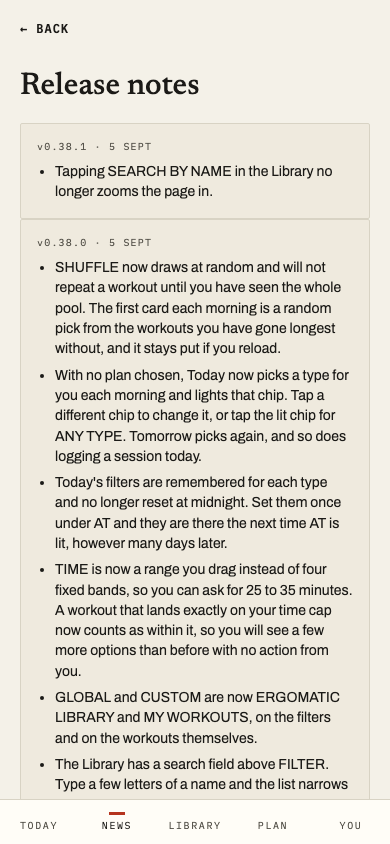
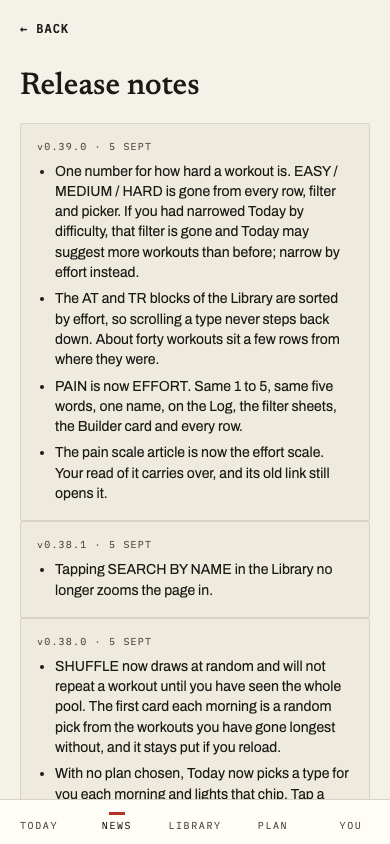
v0.39.0 notes: EASY/MEDIUM/HARD gone, PAIN is now EFFORT, AT/TR re-sorted, the effort-scale article; releasePin bumped, releases capture refreshed
Claude-Session: https://claude.ai/code/session_013Zebvh9Rq7cXCKg9k1TN2b

Changed region(s): [[0.0923, 0.1848, 0.8923, 0.955]]

diff --git a/app/src/news/content/releaseNotes.ts b/app/src/news/content/releaseNotes.ts
@@ -5,6 +5,30 @@ import type { ReleaseNote } from "./types";
 // would notice, and internal-only releases are skipped.
 export const RELEASE_NOTES: ReleaseNote[] = [
   {
+    // v0.39.0: git log v0.38.1..main --oneline at 2472133a — four merges,
+    // every one accounted (RF15, no `--merges`; main is squash-merged):
+    //   #307 Wave E PR C — the Concept2 send carries the monitor's own
+    //     total; that surface stays DARK in production behind
+    //     C2_LINK_ENABLED and C2_ALLOWED_EMAILS (same reason v0.37.0 and
+    //     v0.38.0 skipped #290/#293/#298/#303): no item.
+    //   #308 Phase DE spec + ROADMAP — docs only: no item.
+    //   #309 Phase DE PR 1 — items 1 and 2 (the removed axis, the
+    //     re-sorted AT and TR blocks) and the discarded difficulty filter
+    //     named inside item 1, per the PM open gate's release-note ruling.
+    //   #310 Phase DE PR 2 — item 3 (the rename) and item 4 (the article).
+    // Installed pre-v0.39.0 builds keep working against this server for
+    // one tag cycle (the API answers with both PAIN and EFFORT); the
+    // compat comes out in Phase DE PR 3.
+    version: "v0.39.0",
+    date: "2026-09-05",
+    items: [
+      "One number for how hard a workout is. EASY / MEDIUM / HARD is gone from every row, filter and picker. If you had narrowed Today by difficulty, that filter is gone and Today may suggest more workouts than before; narrow by effort instead.",
+      "The AT and TR blocks of the Library are sorted by effort, so scrolling a type never steps back down. About forty workouts sit a few rows from where they were.",
+      "PAIN is now EFFORT. Same 1 to 5, same five words, one name, on the Log, the filter sheets, the Builder card and every row.",
+      "The pain scale article is now the effort scale. Your read of it carries over, and its old link still opens it.",
+    ],
+  },
+  {
     // v0.38.1: git log v0.38.0..main --oneline at f927ef4d — two merges,
     // both accounted (RF15, no `--merges`; main is squash-merged):
     //   #304 the Library search field no longer zooms the page — the item.

diff --git a/app/e2e/releasePin.ts b/app/e2e/releasePin.ts
@@ -16,4 +16,4 @@
  *  claims.
  *
  *  Bump alongside each release-notes PR. */
-export const NEWEST_RELEASE_VERSION = "v0.38.1";
+export const NEWEST_RELEASE_VERSION = "v0.39.0";
